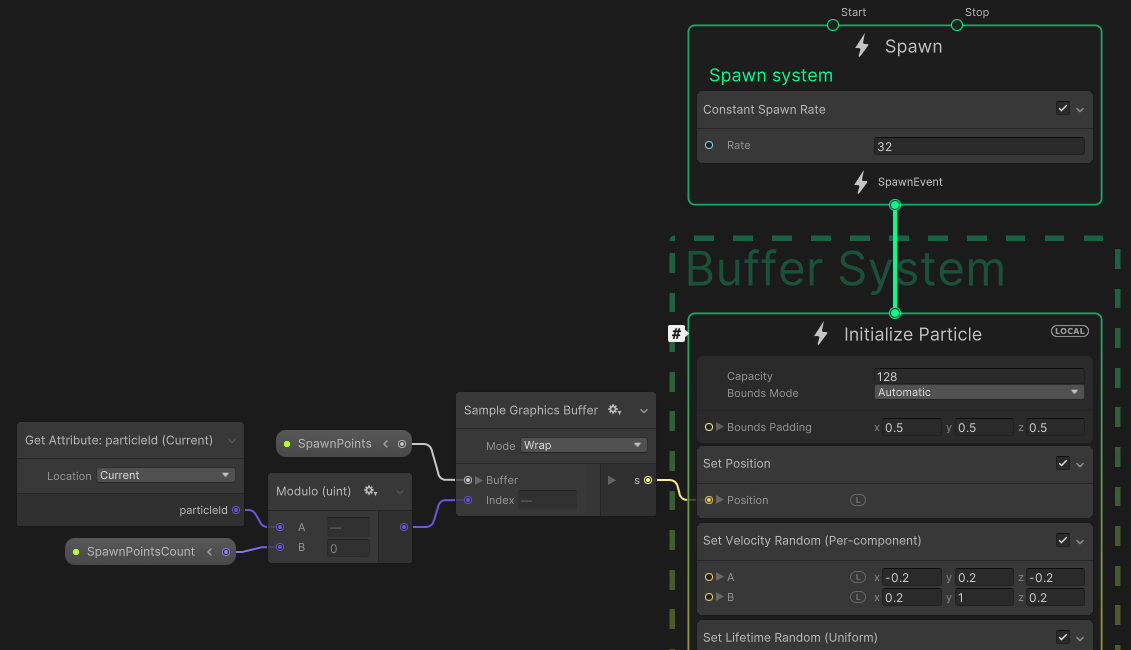
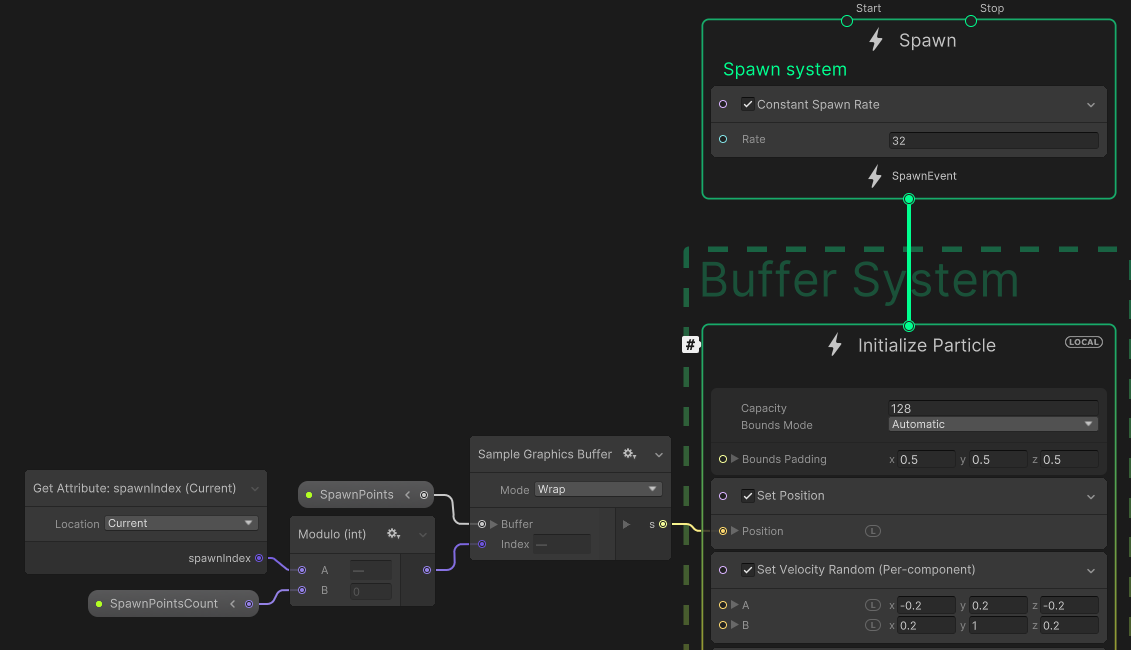
Updated graphics buffer paragraph

Changed region(s): [[0.0, 0.0, 1.0, 1.0], [0.9903, 0.4, 1.0, 0.4308]]

diff --git a/public/posts/how-to-vfx-graph/index.html b/public/posts/how-to-vfx-graph/index.html
@@ -53,7 +53,7 @@
         },
         "datePublished": "2023-04-19",
         "description": "Unity VFX Graph cheatsheet.",
-        "wordCount":  2263 ,
+        "wordCount":  2265 ,
         "mainEntityOfPage": "True",
         "dateModified": "2023-04-19",
         "image": {
@@ -373,7 +373,7 @@ Following example script takes the list of points and sends them through graphic
 Inside the graph you need to select matching type of data used by the buffer. You can do it by clicking the small cog icon in the right top corner of the <code>SampleBuffer</code> node.</p>
 <figure><img src="buffer-type.png"/>
 </figure>
-<p>Following graph samples the buffer using <code>particle id</code> and spawns particles between points provided by buffer. Because we do not shrink the buffer length, we must wrap index by number of current elements <em>(index % count)</em> in case we removed any spawn point.</p>
+<p>Following graph samples the buffer using <code>spawnIndex</code> and spawns particles between points provided by buffer. Because we do not shrink the buffer length, we must wrap index by number of current elements <em>(index % count)</em> in case we removed any spawn point.</p>
 <figure><img src="gbuffer.png"/>
 </figure>
 <p>If you want to use custom struct as buffer elements you can mark it with attribute <code>[VFXType(VFXTypeAttribute.Usage.GraphicsBuffer)]</code> and get stride size with <code>System.Runtime.InteropServices.Marshal.SizeOf(typeof(YourStruct));</code> - more information <a href="https://forum.unity.com/threads/unable-to-sample-custom-struct-in-visual-effects-graph.1198300/#post-7661626">here</a>.</p>
@@ -489,6 +489,9 @@ This node returns matrix that can be used to transform positions, directions and
     </a>
 </h2><p>You can read great post about mesh sampling here:
 <a href="https://forum.unity.com/threads/uniform-distribution-with-skinned-mesh-sampling.1188571">https://forum.unity.com/threads/uniform-distribution-with-skinned-mesh-sampling.1188571</a></p>
+<blockquote>
+<p><em>Additional resources: <a href="https://forum.unity.com/threads/emit-particles-from-animated-rig-model-with-color-sampled-from-the-texture.1490452/#post-9286618">emit-particles-from-animated-rig-model</a></em></p>
+</blockquote>
 <h2 id="how-to-use-particle-decals">
     How to use particle decals
     <a class="heading-anchor" href="#how-to-use-particle-decals">
@@ -686,7 +689,7 @@ Example script below finds all mesh renderers and bakes part of the scene into S
 </svg>
 </a></div>
     <small class="footer_copyright">
-        © 2023 Qriva.
+        © 2024 Qriva.
         Powered by <a href="https://github.com/hugo-sid/hugo-blog-awesome" target="_blank" rel="noreferrer noopener">Hugo blog awesome</a>
         theme on
         <a href="https://gohugo.io" target="_blank" rel="noreferrer noopener">Hugo</a>.

diff --git a/public/404.html b/public/404.html
@@ -130,7 +130,7 @@ stroke-linejoin="round" class="feather feather-home">
 </svg>
 </a></div>
     <small class="footer_copyright">
-        © 2023 Qriva.
+        © 2024 Qriva.
         Powered by <a href="https://github.com/hugo-sid/hugo-blog-awesome" target="_blank" rel="noreferrer noopener">Hugo blog awesome</a>
         theme on
         <a href="https://gohugo.io" target="_blank" rel="noreferrer noopener">Hugo</a>.

diff --git a/public/categories/index.html b/public/categories/index.html
@@ -137,7 +137,7 @@ stroke-linejoin="round" class="feather feather-home">
 </svg>
 </a></div>
     <small class="footer_copyright">
-        © 2023 Qriva.
+        © 2024 Qriva.
         Powered by <a href="https://github.com/hugo-sid/hugo-blog-awesome" target="_blank" rel="noreferrer noopener">Hugo blog awesome</a>
         theme on
         <a href="https://gohugo.io" target="_blank" rel="noreferrer noopener">Hugo</a>.

diff --git a/public/index.html b/public/index.html
@@ -162,7 +162,7 @@ stroke-linejoin="round" class="feather feather-home">
 </svg>
 </a></div>
     <small class="footer_copyright">
-        © 2023 Qriva.
+        © 2024 Qriva.
         Powered by <a href="https://github.com/hugo-sid/hugo-blog-awesome" target="_blank" rel="noreferrer noopener">Hugo blog awesome</a>
         theme on
         <a href="https://gohugo.io" target="_blank" rel="noreferrer noopener">Hugo</a>.

diff --git a/public/posts/index.html b/public/posts/index.html
@@ -201,7 +201,7 @@ stroke-linejoin="round" class="feather feather-home">
 </svg>
 </a></div>
     <small class="footer_copyright">
-        © 2023 Qriva.
+        © 2024 Qriva.
         Powered by <a href="https://github.com/hugo-sid/hugo-blog-awesome" target="_blank" rel="noreferrer noopener">Hugo blog awesome</a>
         theme on
         <a href="https://gohugo.io" target="_blank" rel="noreferrer noopener">Hugo</a>.

diff --git a/public/tags/index.html b/public/tags/index.html
@@ -137,7 +137,7 @@ stroke-linejoin="round" class="feather feather-home">
 </svg>
 </a></div>
     <small class="footer_copyright">
-        © 2023 Qriva.
+        © 2024 Qriva.
         Powered by <a href="https://github.com/hugo-sid/hugo-blog-awesome" target="_blank" rel="noreferrer noopener">Hugo blog awesome</a>
         theme on
         <a href="https://gohugo.io" target="_blank" rel="noreferrer noopener">Hugo</a>.

diff --git a/content/posts/how-to-vfx-graph/index.md b/content/posts/how-to-vfx-graph/index.md
@@ -179,7 +179,7 @@ Inside the graph you need to select matching type of data used by the buffer. Yo
 
 {{% figure src="buffer-type.png" %}}
 
-Following graph samples the buffer using `particle id` and spawns particles between points provided by buffer. Because we do not shrink the buffer length, we must wrap index by number of current elements *(index % count)* in case we removed any spawn point.
+Following graph samples the buffer using `spawnIndex` and spawns particles between points provided by buffer. Because we do not shrink the buffer length, we must wrap index by number of current elements *(index % count)* in case we removed any spawn point.
 
 {{% figure src="gbuffer.png" %}}
 
@@ -251,6 +251,7 @@ By default the `oldPosition` attribute is not set, the only exception is `SpawnO
 ## Mesh sampling and point cache
 You can read great post about mesh sampling here:
 https://forum.unity.com/threads/uniform-distribution-with-skinned-mesh-sampling.1188571
+> *Additional resources: [emit-particles-from-animated-rig-model](https://forum.unity.com/threads/emit-particles-from-animated-rig-model-with-color-sampled-from-the-texture.1490452/#post-9286618)*
 
 ## How to use particle decals
 Output Particle Decal context is used to spawn decal particles. Important detail is that particle size and particle scale defines the decal box used to cast decals.
